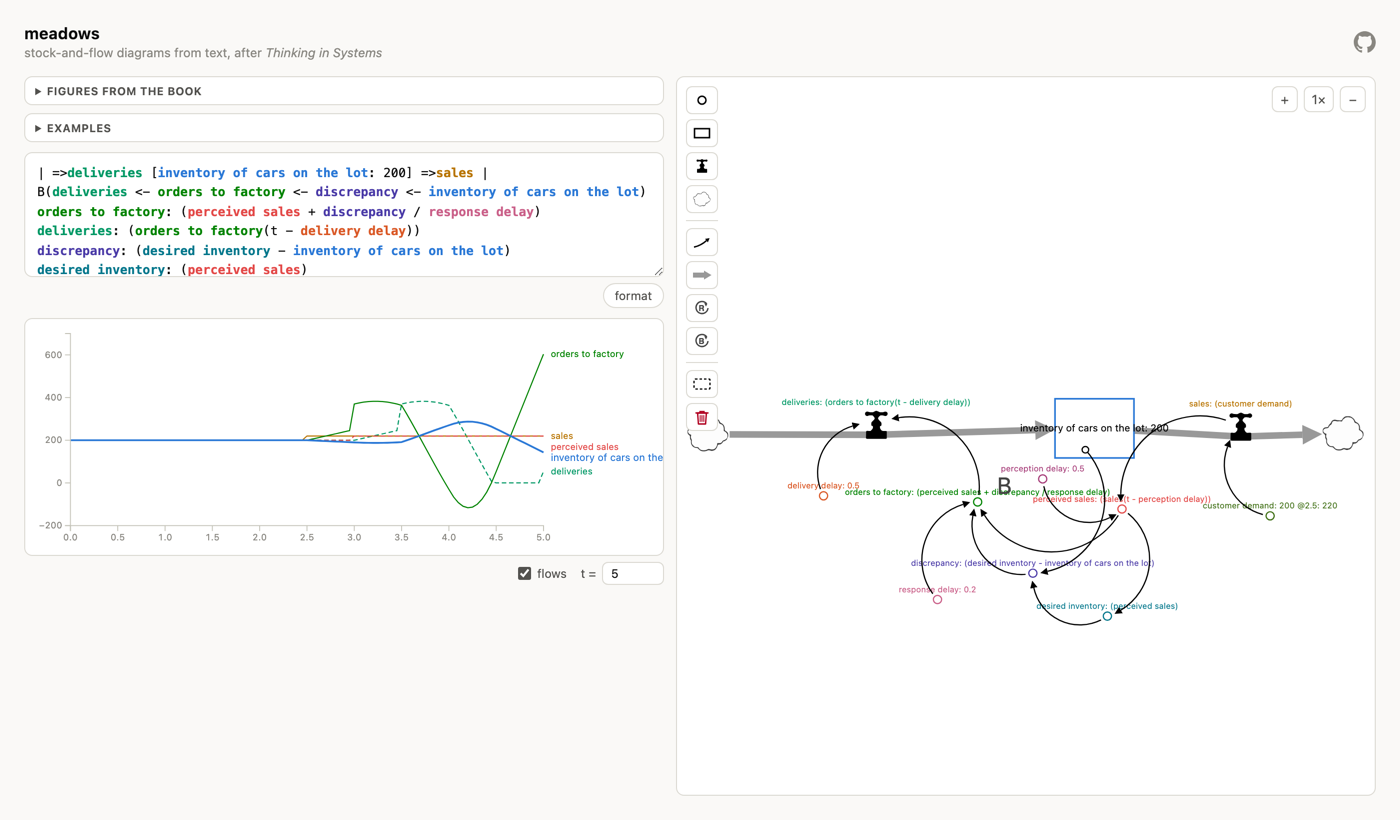
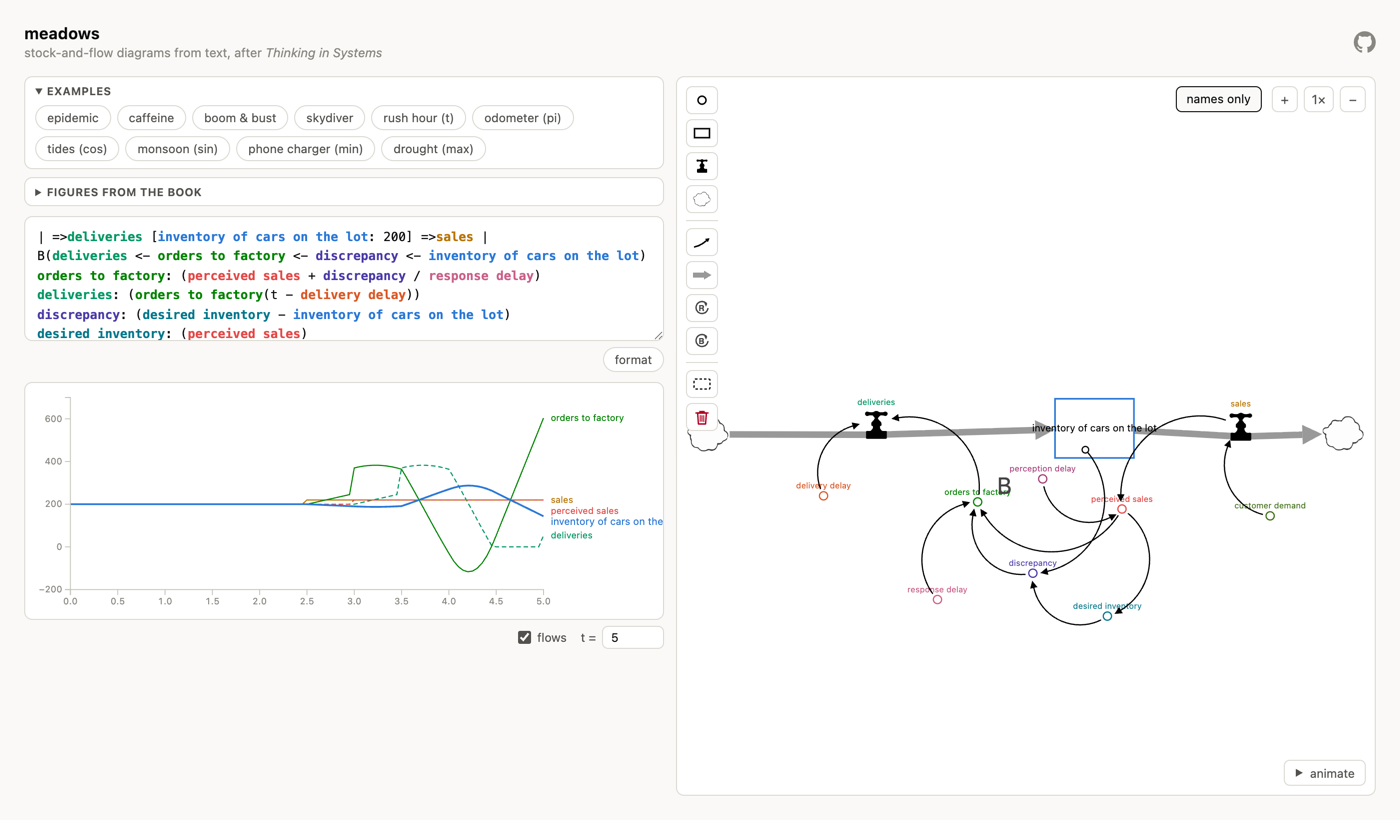
README: retake the screenshots
The three shots predated the animate toggle, the names-only labels,
and the new example sections. Retaken from the running app the same
way (2x capture of a 1400-wide window, downscaled to 1400px), with the
same models: the hero one-liner, figure 15 & 18, and figure 31 & 33 at
t = 5 with flows ticked. Each now opens as the app does — examples open
above the folded figures, bare-name labels — so the hero grows from
640 to 704px tall to keep its t = row in frame, and its alt text names
the "water in tub" box.

diff --git a/README.md b/README.md
@@ -15,8 +15,8 @@ You type a model:
 
 ![The playground: the one-line bathtub model in the editor on the left above a
 chart of its level falling from 50 to 0, and on the right the compiled diagram
-— a cloud, the inflow faucet, the "water in tub: 50" box, the outflow faucet,
-and a second cloud, joined by grey flow pipes.](docs/hero.png)
+— a cloud, the inflow faucet, the "water in tub" box, the outflow faucet, and
+a second cloud, joined by grey flow pipes.](docs/hero.png)
 
 Meadows compiles it into a graph (stocks as boxes, flows as faucets on pipes,
 clouds for whatever lies outside the model boundary, thin curved arcs for
